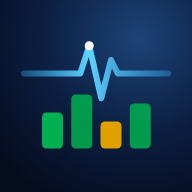
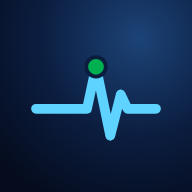
Nuova icona dell'app: polso con pallino verde (proposta 1 di Luca)
Claude-Session: https://claude.ai/code/session_01RQViTF3TkJfvMB4AbWBMtB

Changed region(s): [[0.0938, 0.2188, 0.9062, 0.7812]]

diff --git a/index.html b/index.html
@@ -6,8 +6,8 @@
 <meta name="viewport" content="width=device-width,initial-scale=1">
 <meta name="theme-color" content="#0b1d3f">
 <link rel="manifest" href="manifest.json">
-<link rel="icon" type="image/png" href="assets/favicon-64.png">
-<link rel="apple-touch-icon" href="assets/icon-192.png">
+<link rel="icon" type="image/png" href="assets/favicon-64.png?v=2">
+<link rel="apple-touch-icon" href="assets/icon-192.png?v=2">
 <link rel="preconnect" href="https://fonts.googleapis.com">
 <link rel="preconnect" href="https://fonts.gstatic.com" crossorigin>
 <link href="https://fonts.googleapis.com/css2?family=Inter:wght@400;500;600;700&family=Michroma&family=PT+Serif:ital,wght@0,400;0,700;1,400&family=IBM+Plex+Mono:wght@400;500;600&display=swap" rel="stylesheet">
